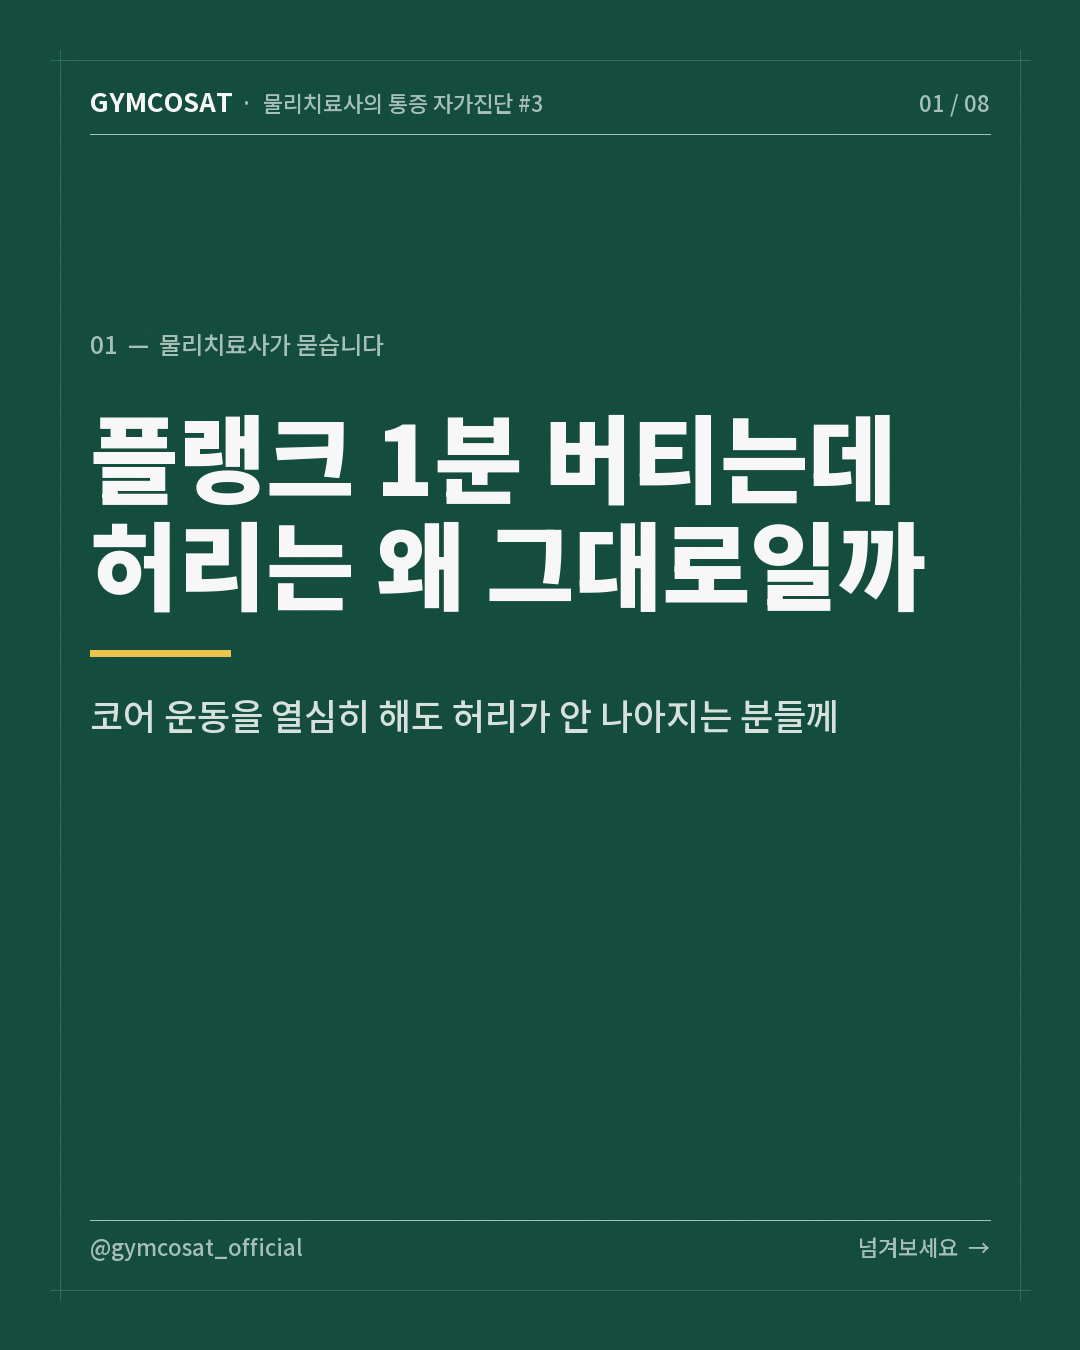
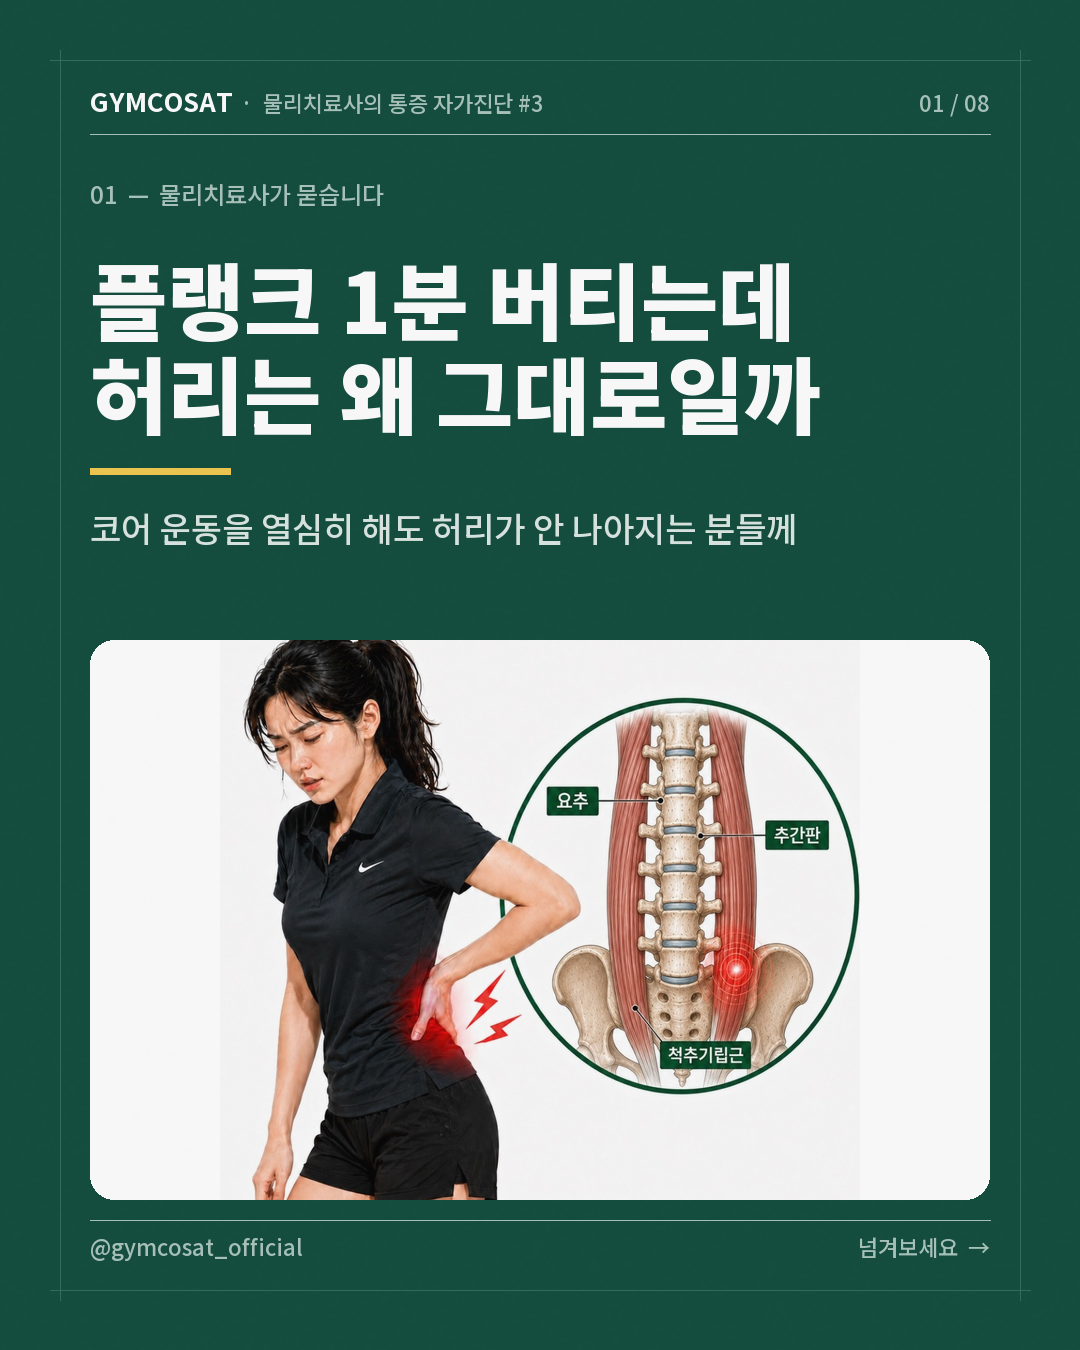
슬라이드 일러스트 지원(기존 계정 그림 크롭 재활용) + 플랭크 편 이미지 적용 + 릴스 제작기 초안

diff --git a/scripts/reel_make.py b/scripts/reel_make.py
@@ -1,0 +1,126 @@
+"""릴스 자동 제작 — 캐러셀 슬라이드 + 대본 TTS + 자막 → 1080x1920 mp4.
+
+  python scripts/reel_make.py output/instagram/<dir>/           # content.json + 01~08.png 사용
+  python scripts/reel_make.py output/instagram/<dir>/ --voice ko-KR-InJoonNeural
+
+산출: <dir>/reel.mp4, <dir>/reel_cover.png
+촬영본이 있으면 --video path.mp4 로 상단 영상을 교체(자막·음성은 동일).
+"""
+import asyncio, json, subprocess, sys, tempfile
+from pathlib import Path
+from PIL import Image, ImageDraw, ImageFont
+import imageio_ffmpeg
+
+ROOT = Path(__file__).resolve().parent.parent
+BRAND = json.loads((ROOT / "templates" / "brand.json").read_text(encoding="utf-8"))
+C = BRAND["colors"]
+FF = imageio_ffmpeg.get_ffmpeg_exe()
+W, H = 1080, 1920
+VOICE = "ko-KR-InJoonNeural"  # 남성. 여성: ko-KR-SunHiNeural
+
+
+def font(size, weight="Bold"):
+    f = ImageFont.truetype(BRAND["font"], size)
+    try:
+        f.set_variation_by_name(weight)
+    except Exception:
+        pass
+    return f
+
+
+def wrap(d, text, f, max_w):
+    lines, cur = [], ""
+    for ch in text:
+        t = cur + ch
+        if d.textlength(t, font=f) > max_w and cur:
+            sp = cur.rfind(" ")
+            if sp > 0:
+                lines.append(cur[:sp]); cur = cur[sp + 1:] + ch
+            else:
+                lines.append(cur); cur = ch
+        else:
+            cur = t
+    if cur:
+        lines.append(cur)
+    return lines
+
+
+async def tts(text, out, voice):
+    import edge_tts
+    await edge_tts.Communicate(text, voice, rate="+8%").save(str(out))
+
+
+def duration(path):
+    r = subprocess.run([FF, "-i", str(path)], capture_output=True, text=True, errors="replace")
+    import re
+    m = re.search(r"Duration: (\d+):(\d+):(\d+\.\d+)", r.stderr)
+    h, mi, s = m.groups()
+    return int(h) * 3600 + int(mi) * 60 + float(s)
+
+
+def frame(slide_png, caption, label, dark=True):
+    """상단: 슬라이드(1080x1350) / 하단: 자막 밴드(570)"""
+    img = Image.new("RGB", (W, H), C["green_dark"])
+    if slide_png and Path(slide_png).exists():
+        s = Image.open(slide_png).convert("RGB").resize((1080, 1350))
+        img.paste(s, (0, 0))
+    d = ImageDraw.Draw(img)
+    d.rectangle([0, 1350, W, H], fill=C["green_dark"])
+    d.rectangle([60, 1350, 200, 1356], fill=C["accent"])
+    d.text((60, 1385), label, font=font(24, "Medium"), fill="#A9C4BB")
+    f = font(46, "Bold")
+    lines = wrap(d, caption, f, W - 120)[:5]
+    y = 1440
+    for ln in lines:
+        d.text((60, y), ln, font=f, fill=C["white"])
+        y += 62
+    d.text((60, H - 70), BRAND["handle"], font=font(24, "Medium"), fill="#A9C4BB")
+    return img
+
+
+def main(dir_path, voice=VOICE, video=None):
+    out = Path(dir_path)
+    data = json.loads((out / "content.json").read_text(encoding="utf-8"))
+    r = data["reel_script"]
+    # 세그먼트: (텍스트, 슬라이드, 라벨)
+    ex = [i for i, s in enumerate(data["slides"], 1) if s["kind"] == "exercise"]
+    segs = [(r["hook"], out / "01.png", "HOOK")]
+    for i, p in enumerate(r["points"]):
+        sl = out / f"{ex[i]:02d}.png" if i < len(ex) else out / "03.png"
+        segs.append((p, sl, f"POINT {i + 1}"))
+    segs.append((r["cta"], out / f"{len(data['slides']):02d}.png", "FOLLOW"))
+
+    tmp = Path(tempfile.mkdtemp())
+    parts = []
+    for i, (text, slide, label) in enumerate(segs):
+        a = tmp / f"a{i}.mp3"; asyncio.run(tts(text, a, voice))
+        dur = duration(a) + 0.35
+        # 자막을 문장 단위로 쪼개 순차 표시
+        sents = [s.strip() for s in text.replace("?", "?|").replace(".", ".|").replace("!", "!|").split("|") if s.strip()]
+        per = dur / max(1, len(sents))
+        seg_files = []
+        for j, sent in enumerate(sents):
+            fp = tmp / f"f{i}_{j}.png"; frame(slide, sent, label).save(fp)
+            v = tmp / f"v{i}_{j}.mp4"
+            subprocess.run([FF, "-y", "-loglevel", "error", "-loop", "1", "-i", str(fp), "-t", f"{per:.2f}",
+                            "-vf", "scale=1080:1920,format=yuv420p", "-r", "30", "-c:v", "libx264", "-preset", "veryfast", str(v)], check=True)
+            seg_files.append(v)
+        lst = tmp / f"l{i}.txt"; lst.write_text("".join(f"file '{p.as_posix()}'\n" for p in seg_files), encoding="utf-8")
+        vcat = tmp / f"vc{i}.mp4"
+        subprocess.run([FF, "-y", "-loglevel", "error", "-f", "concat", "-safe", "0", "-i", str(lst), "-c", "copy", str(vcat)], check=True)
+        seg = tmp / f"s{i}.mp4"
+        subprocess.run([FF, "-y", "-loglevel", "error", "-i", str(vcat), "-i", str(a), "-c:v", "copy", "-c:a", "aac", "-shortest", str(seg)], check=True)
+        parts.append(seg)
+    lst = tmp / "all.txt"; lst.write_text("".join(f"file '{p.as_posix()}'\n" for p in parts), encoding="utf-8")
+    final = out / "reel.mp4"
+    subprocess.run([FF, "-y", "-loglevel", "error", "-f", "concat", "-safe", "0", "-i", str(lst), "-c", "copy", str(final)], check=True)
+    frame(out / "01.png", r["hook"], "HOOK").save(out / "reel_cover.png")
+    print(f"reel: {final} ({duration(final):.1f}s)")
+
+
+if __name__ == "__main__":
+    args = sys.argv[1:]
+    voice = VOICE
+    if "--voice" in args:
+        voice = args[args.index("--voice") + 1]
+    main(args[0], voice)

diff --git a/scripts/ig_render.py b/scripts/ig_render.py
@@ -95,6 +95,23 @@ def ghost_number(d, n, dark):
     d.text((W - M - d.textlength(n, font=f) + 40, H - 700), n, font=f, fill=col)
 
 
+def place_image(img, rel, box):
+    """박스 안에 일러스트를 비율 유지로 맞춰 흰 카드 위에 배치"""
+    l, t, r, b = box
+    bw, bh = r - l, b - t
+    if bh < 200:
+        return
+    src = Image.open(ROOT / rel).convert("RGB")
+    sw, sh = src.size
+    k = min(bw / sw, bh / sh)
+    src = src.resize((int(sw * k), int(sh * k)), Image.LANCZOS)
+    card = Image.new("RGB", (bw, bh), "#FFFFFF")
+    card.paste(src, ((bw - src.width) // 2, (bh - src.height) // 2))
+    mask = Image.new("L", (bw, bh), 0)
+    ImageDraw.Draw(mask).rounded_rectangle([0, 0, bw - 1, bh - 1], 24, fill=255)
+    img.paste(card, (l, t), mask)
+
+
 def render_slide(s, page, total, series):
     kind = s["kind"]
     dark = kind in ("hook", "cta")
@@ -107,12 +124,16 @@ def render_slide(s, page, total, series):
     if kind == "hook":
         frame(d, "#2E6B58")
         header(d, page, total, series, dark)
-        y = 400
+        has_img = bool(s.get("image")) and Path(ROOT / s["image"]).exists()
+        y = 250 if has_img else 400
         d.text((M, y - 70), "01  —  물리치료사가 묻습니다", font=font(24, "Medium"), fill=mu)
-        y = block(d, M, y, s["title"], font(96, "Black"), C["white"], maxw, 1.12)
-        d.rectangle([M, y + 36, M + 140, y + 42], fill=C["accent"])
+        y = block(d, M, y, s["title"], font(84 if has_img else 96, "Black"), C["white"], maxw, 1.12)
+        d.rectangle([M, y + 30, M + 140, y + 36], fill=C["accent"])
         if s.get("sub"):
-            block(d, M, y + 80, s["sub"], font(36, "Medium"), "#DCE8E3", maxw - 60, 1.4)
+            y = block(d, M, y + 70, s["sub"], font(34, "Medium"), "#DCE8E3", maxw - 60, 1.4)
+        if has_img:
+            place_image(img, s["image"], (M, max(y + 40, 640), W - M, H - M - 60))
+            d = ImageDraw.Draw(img)
         footer(d, dark)
 
     elif kind == "cta":
@@ -153,6 +174,8 @@ def render_slide(s, page, total, series):
                 title = title[1:].strip()
             y = block(d, M, y, title, font(70, "Bold"), C["green"], maxw, 1.16)
             y += 48
+            if s.get("image") and Path(ROOT / s["image"]).exists():
+                y += 0
             if kind == "check":
                 for it in s.get("items", []):
                     d.rounded_rectangle([M, y + 12, M + 46, y + 58], 6, outline=C["green"], width=3)
@@ -164,9 +187,13 @@ def render_slide(s, page, total, series):
                     y = block(d, M + 36, y, ln, font(40, "Medium"), C["text_dark"], maxw - 36, 1.32) + 26
             return y
 
+        has_img = bool(s.get("image")) and Path(ROOT / s["image"]).exists()
         h = body(ImageDraw.Draw(Image.new("RGB", (W, H))), 0)
-        y0 = max(M + 90, (H - h) // 2 - 10)
-        body(d, y0)
+        y0 = M + 90 if has_img else max(M + 90, (H - h) // 2 - 10)
+        y_end = body(d, y0)
+        if has_img:
+            place_image(img, s["image"], (M, y_end + 10, W - M, H - M - 60))
+            d = ImageDraw.Draw(img)
         footer(d, dark)
 
     return grain(img)
